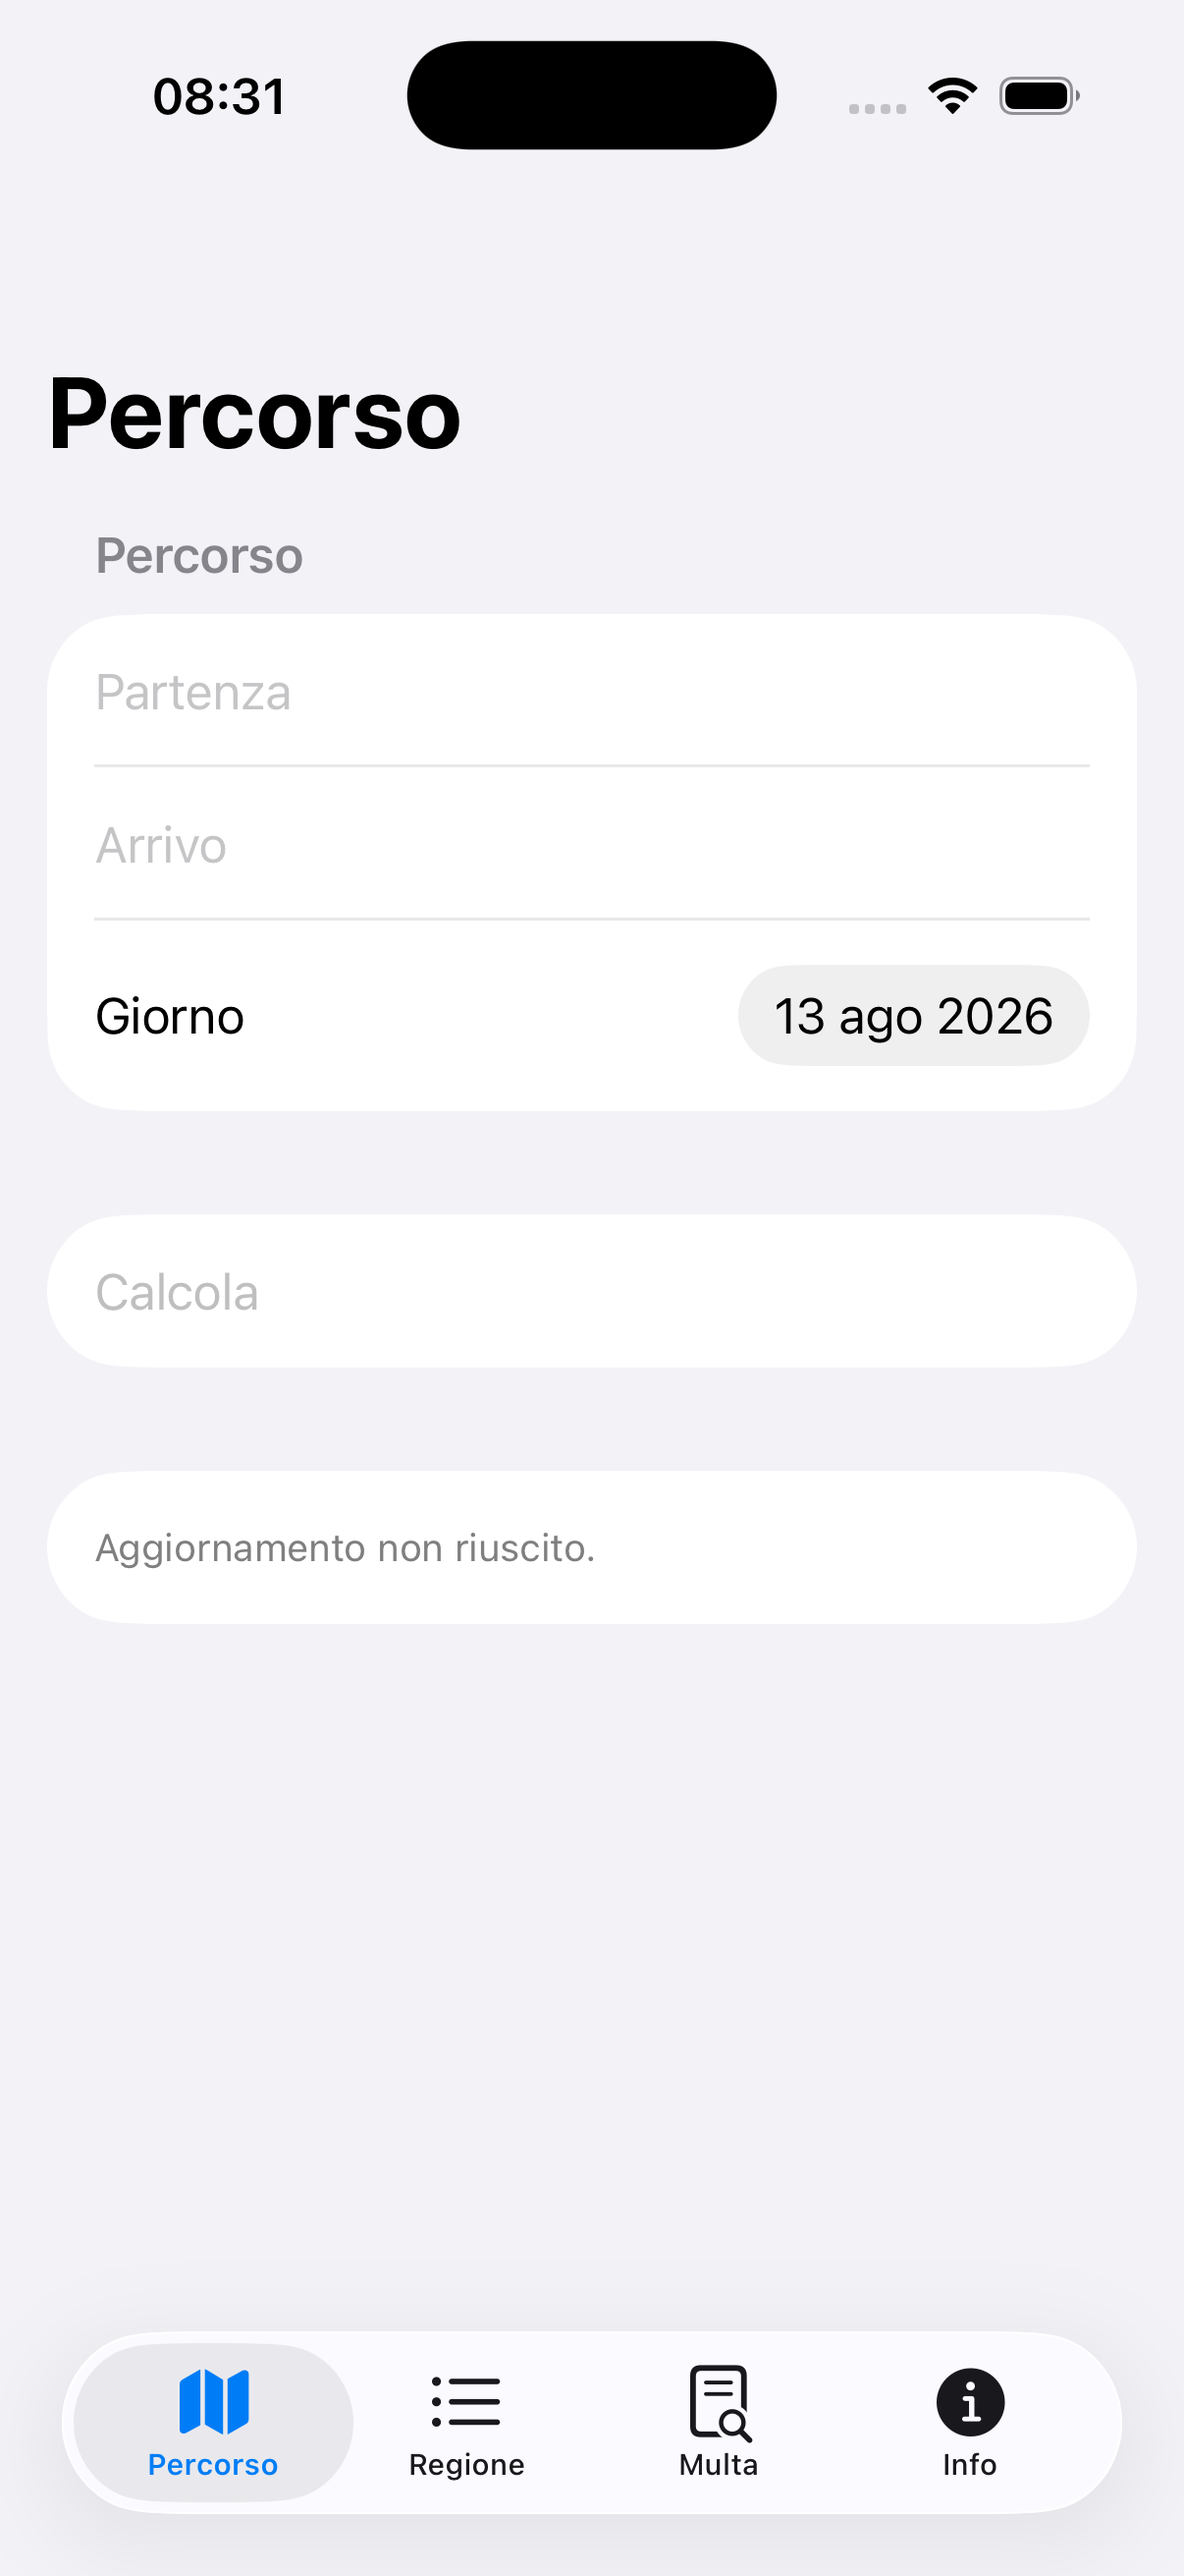
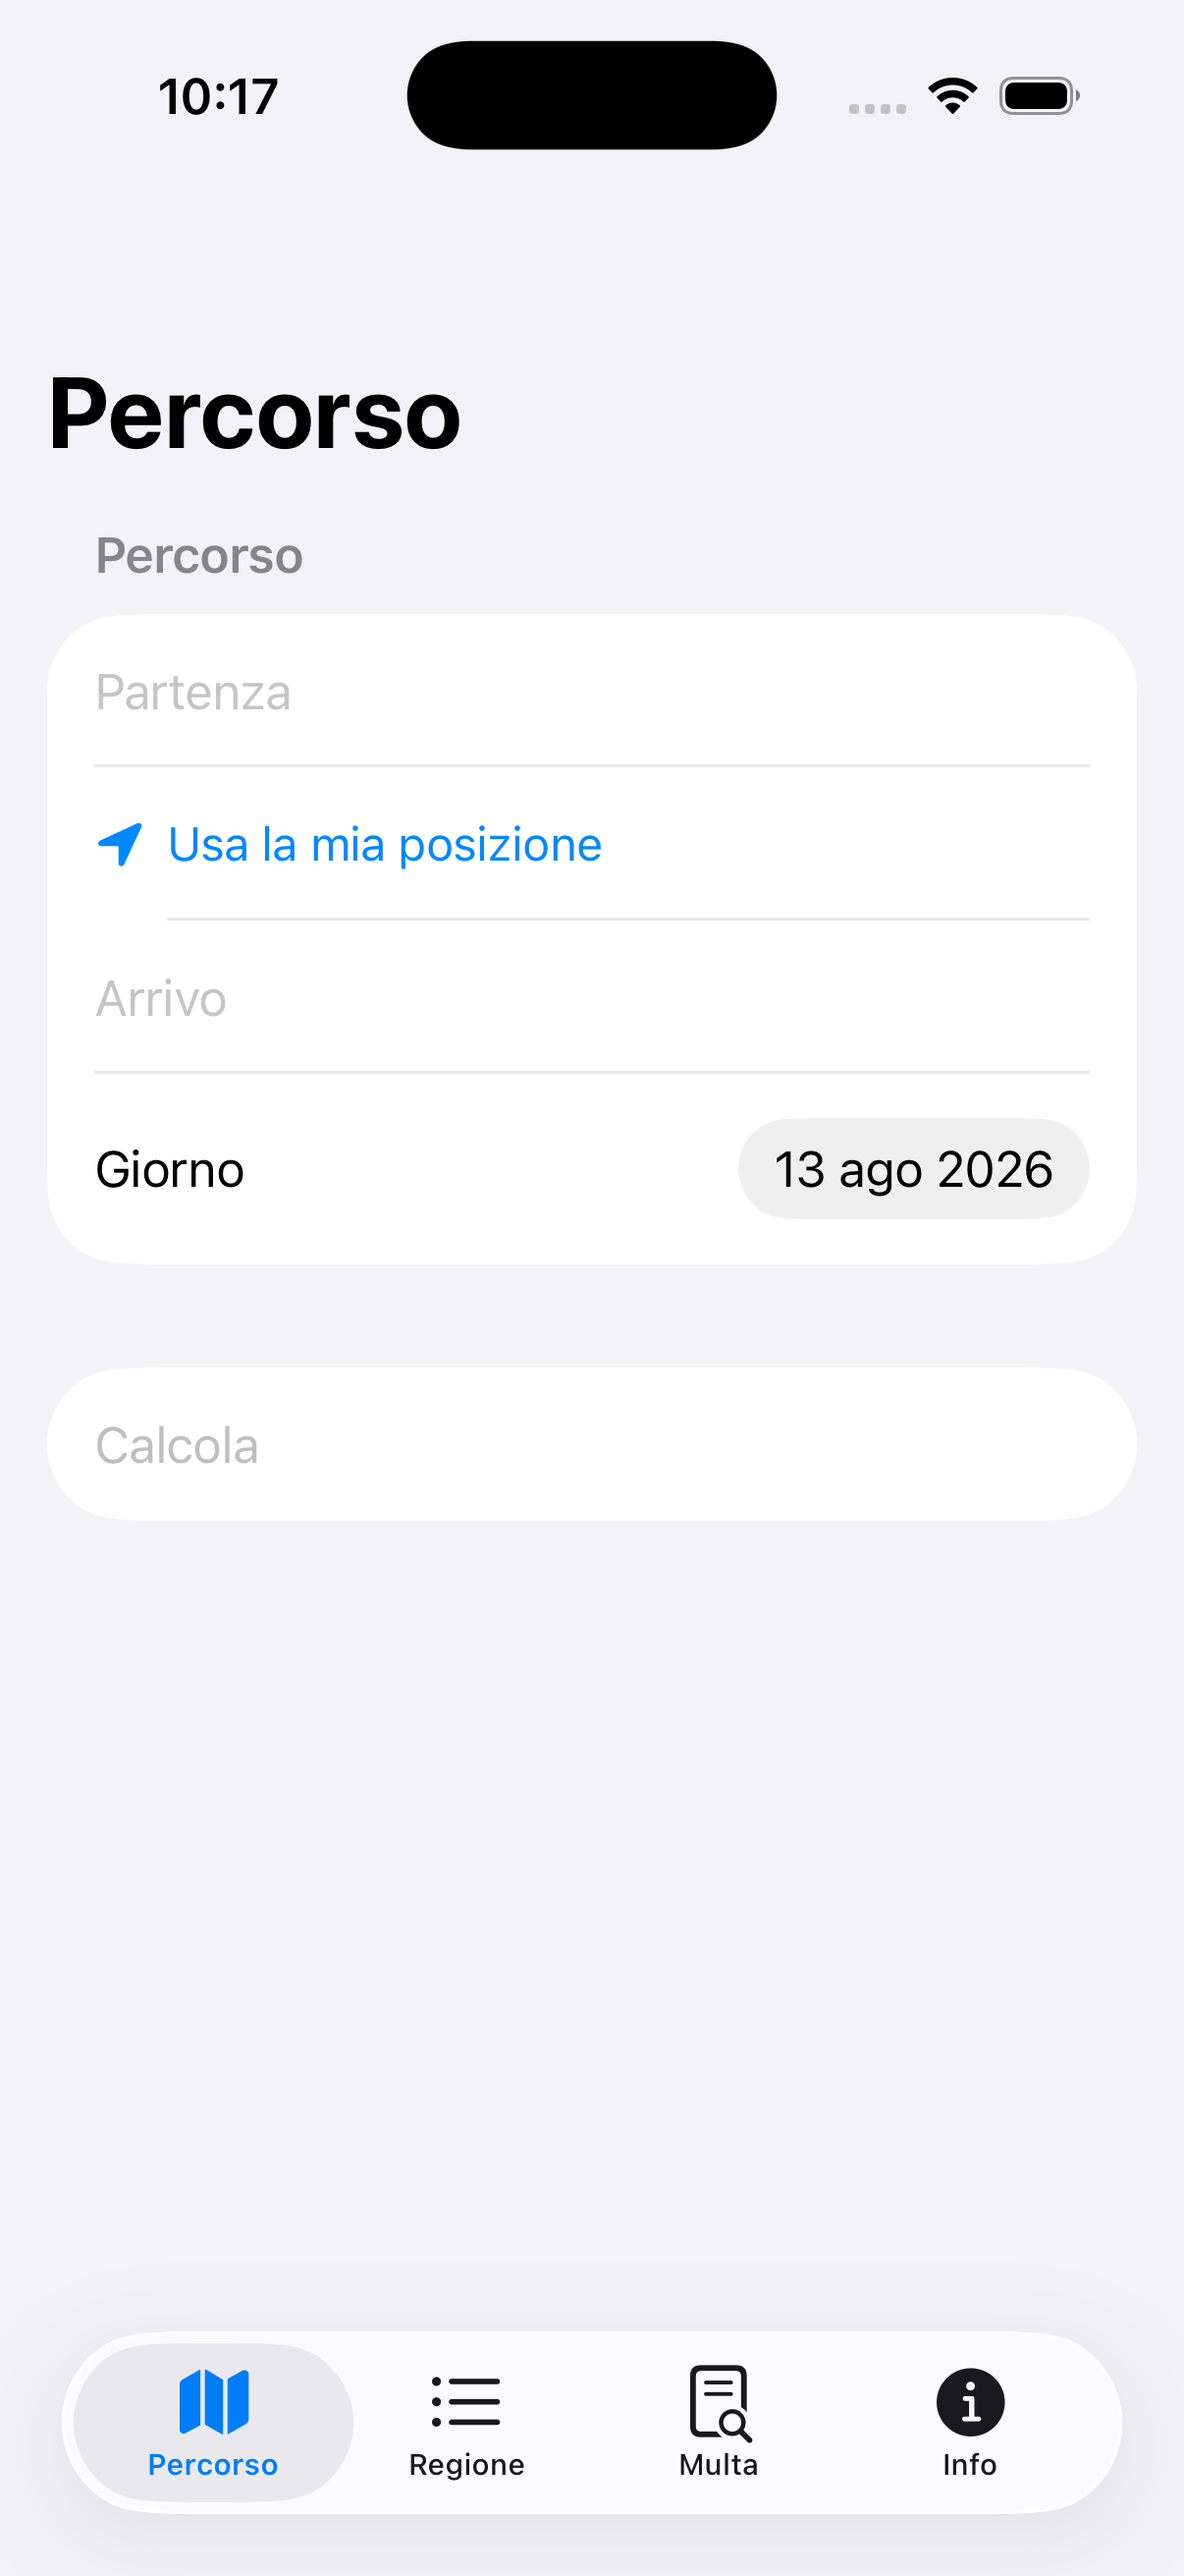
feat(ios): use my position, and freshness that states a date
Adds an explicit 'Usa la mia posizione' button to Partenza. One-shot lookup in
its own service, separate from the trip-mode engine: it asks once, reverse
geocodes to a place name the user can see and correct, and stops. The
authorisation prompt only ever appears because a button was pressed.

Replaces the standing 'Aggiornamento non riuscito.' with a line that carries
the publication date. Saying an update failed while showing a current week
reads as breakage when nothing is broken; and saying it without a date tells
the user nothing about whether to trust the screen.

Claude-Session: https://claude.ai/code/session_012rCMjxBwhzk3agcKwa94PA

diff --git a/ios/App/Services/CurrentPlace.swift b/ios/App/Services/CurrentPlace.swift
@@ -1,0 +1,117 @@
+import CoreLocation
+import Foundation
+
+/// A one-shot "where am I" lookup for the Partenza field.
+///
+/// Deliberately separate from `LocationService`, which is the trip-mode engine:
+/// this asks once, reverse-geocodes, and stops. Nothing here keeps the GPS on,
+/// and the authorisation prompt only ever appears because the user tapped the
+/// button — the app never asks for location on its own.
+@MainActor
+@Observable
+final class CurrentPlace: NSObject, CLLocationManagerDelegate {
+    enum Failure: LocalizedError {
+        case denied
+        case unavailable
+
+        var errorDescription: String? {
+            switch self {
+            case .denied:
+                return "Accesso alla posizione negato. Puoi attivarlo in Impostazioni."
+            case .unavailable:
+                return "Posizione non disponibile in questo momento."
+            }
+        }
+    }
+
+    private let manager = CLLocationManager()
+    private var continuation: CheckedContinuation<CLLocation, Error>?
+
+    private(set) var isResolving = false
+
+    override init() {
+        super.init()
+        manager.delegate = self
+        manager.desiredAccuracy = kCLLocationAccuracyHundredMeters
+    }
+
+    /// A human-readable place name for the current position, e.g. "Milano".
+    ///
+    /// Returns a name rather than coordinates so the field stays legible and the
+    /// user can see, and correct, what the app thinks it resolved.
+    func resolveName() async throws -> String {
+        isResolving = true
+        defer { isResolving = false }
+
+        let location = try await requestLocation()
+        let placemarks = try? await CLGeocoder().reverseGeocodeLocation(location)
+        guard let placemark = placemarks?.first else {
+            // Fall back to coordinates rather than failing: a usable origin beats
+            // a pretty one, and the user can always type over it.
+            return String(format: "%.5f, %.5f",
+                          location.coordinate.latitude, location.coordinate.longitude)
+        }
+        let parts = [placemark.locality, placemark.subAdministrativeArea]
+            .compactMap { $0 }
+        return parts.first ?? placemark.name ?? String(
+            format: "%.5f, %.5f",
+            location.coordinate.latitude, location.coordinate.longitude
+        )
+    }
+
+    private func requestLocation() async throws -> CLLocation {
+        switch manager.authorizationStatus {
+        case .denied, .restricted:
+            throw Failure.denied
+        case .notDetermined:
+            // When In Use only, and only because a button was pressed.
+            manager.requestWhenInUseAuthorization()
+        default:
+            break
+        }
+
+        return try await withCheckedThrowingContinuation { continuation in
+            self.continuation = continuation
+            manager.requestLocation()
+        }
+    }
+
+    nonisolated func locationManager(_ manager: CLLocationManager,
+                                     didUpdateLocations locations: [CLLocation]) {
+        let last = locations.last
+        Task { @MainActor in
+            guard let last else {
+                self.finish(.failure(Failure.unavailable))
+                return
+            }
+            self.finish(.success(last))
+        }
+    }
+
+    nonisolated func locationManager(_ manager: CLLocationManager,
+                                     didFailWithError error: Error) {
+        Task { @MainActor in self.finish(.failure(error)) }
+    }
+
+    nonisolated func locationManagerDidChangeAuthorization(_ manager: CLLocationManager) {
+        let status = manager.authorizationStatus
+        Task { @MainActor in
+            // The user answered the prompt while we were waiting on it.
+            guard self.continuation != nil else { return }
+            switch status {
+            case .authorizedWhenInUse, .authorizedAlways:
+                self.manager.requestLocation()
+            case .denied, .restricted:
+                self.finish(.failure(Failure.denied))
+            default:
+                break
+            }
+        }
+    }
+
+    private func finish(_ result: Result<CLLocation, Error>) {
+        guard let continuation else { return }
+        self.continuation = nil
+        continuation.resume(with: result)
+    }
+}

diff --git a/ios/App/Views/RouteView.swift b/ios/App/Views/RouteView.swift
@@ -29,6 +29,7 @@ struct RouteView: View {
     /// Debug-only: set by the `-velox.demoTrip` launch argument so trip mode can
     /// be exercised in the simulator without typing addresses. Not user-reachable.
     @State private var demoTripResult: RouteResult?
+    @State private var currentPlace = CurrentPlace()
 
     var body: some View {
         NavigationStack {
@@ -36,6 +37,21 @@ struct RouteView: View {
                 Section("Percorso") {
                     TextField("Partenza", text: $origin)
                         .textInputAutocapitalization(.words)
+                    // Explicit tap only. The app never reaches for the GPS by itself.
+                    Button {
+                        Task { await useCurrentPosition() }
+                    } label: {
+                        HStack(spacing: 6) {
+                            if currentPlace.isResolving {
+                                ProgressView().controlSize(.small)
+                            } else {
+                                Image(systemName: "location.fill")
+                            }
+                            Text("Usa la mia posizione")
+                        }
+                        .font(.callout)
+                    }
+                    .disabled(currentPlace.isResolving)
                     TextField("Arrivo", text: $destination)
                         .textInputAutocapitalization(.words)
                     DatePicker("Giorno", selection: $date, in: dateRange,
@@ -60,9 +76,9 @@ struct RouteView: View {
                         Text(errorText).foregroundStyle(.red).font(.callout)
                     }
                 }
-                if let message = provider.errorMessage {
+                if let note = provider.freshnessNote {
                     Section {
-                        Text(message).font(.footnote).foregroundStyle(.secondary)
+                        Text(note).font(.footnote).foregroundStyle(.secondary)
                     }
                 }
             }
@@ -120,6 +136,20 @@ struct RouteView: View {
         let components = DateComponents(weekOfYear: weekOfYear, yearForWeekOfYear: year)
         guard let start = calendar.date(from: components) else { return nil }
         return start...start.addingTimeInterval(7 * 86_400 - 1)
+    }
+
+    /// Fill Partenza from the device's current position.
+    ///
+    /// Resolves to a place name rather than raw coordinates so the user can see
+    /// what the app thinks it found, and type over it if it guessed the wrong town.
+    private func useCurrentPosition() async {
+        errorText = nil
+        do {
+            origin = try await currentPlace.resolveName()
+        } catch {
+            errorText = (error as? LocalizedError)?.errorDescription
+                ?? "Posizione non disponibile."
+        }
     }
 
     private func calculate() async {

diff --git a/ios/App/Services/SnapshotProvider.swift b/ios/App/Services/SnapshotProvider.swift
@@ -12,6 +12,7 @@ import VeloxKit
 final class SnapshotProvider {
     private(set) var snapshot: Snapshot?
     private(set) var errorMessage: String?
+    private(set) var didRefreshFail = false
 
     private let remoteBase = URL(string:
         "https://tfcfun.github.io/velox-italia/data/latest/")!
@@ -23,6 +24,26 @@ final class SnapshotProvider {
     }
 
     var stalenessDays: Int? { snapshot?.index.ageInDays() }
+
+    /// Whether what the user is looking at is still good, regardless of whether
+    /// the last refresh attempt succeeded.
+    var isDataCurrent: Bool {
+        guard let days = stalenessDays else { return snapshot != nil }
+        return days <= 8
+    }
+
+    /// The one line the user sees about data freshness.
+    ///
+    /// Always carries the publication date, because that is what actually tells
+    /// them whether to trust the screen. A failed refresh over current data is a
+    /// statement of fact, not a warning.
+    var freshnessNote: String? {
+        guard snapshot != nil else { return nil }
+        if didRefreshFail && !isDataCurrent {
+            return Copy.refreshFailed(publishedAt: publishedAtDisplay)
+        }
+        return Copy.dataAsOf(publishedAt: publishedAtDisplay)
+    }
 
     /// The snapshot's publication date, formatted dd/MM/yyyy for display.
     var publishedAtDisplay: String {
@@ -72,9 +93,13 @@ final class SnapshotProvider {
             try FileManager.default.moveItem(at: staging, to: cacheDirectory)
             snapshot = candidate
             errorMessage = nil
+            didRefreshFail = false
         } catch {
-            errorMessage = "Aggiornamento non riuscito."
-            // The previously loaded snapshot is retained deliberately.
+            // The previously loaded snapshot is retained deliberately, and a
+            // failed refresh is only worth mentioning when the data the user is
+            // actually looking at has gone stale. Saying "update failed" while
+            // showing a current week reads as breakage when nothing is broken.
+            didRefreshFail = true
         }
     }
 }

diff --git a/ios/VeloxKit/Tests/VeloxKitTests/CopyTests.swift b/ios/VeloxKit/Tests/VeloxKitTests/CopyTests.swift
@@ -17,6 +17,8 @@ final class CopyTests: XCTestCase {
             Copy.mitNoMatch,
             Copy.stretchEntryAlert(road: "A4"),
             Copy.appPurpose,
+            Copy.dataAsOf(publishedAt: "13/08/2026"),
+            Copy.refreshFailed(publishedAt: "13/08/2026"),
         ]
     }
 
@@ -46,5 +48,14 @@ final class CopyTests: XCTestCase {
         let text = Copy.fixedCameraAlert(metres: 800)
         XCTAssertTrue(text.contains("800"))
         XCTAssertTrue(text.lowercased().contains("limite"))
+    }
+}
+
+extension CopyTests {
+    /// A freshness message without a date tells the user nothing about whether
+    /// to trust the screen.
+    func testFreshnessMessagesAlwaysCarryTheDate() {
+        XCTAssertTrue(Copy.dataAsOf(publishedAt: "13/08/2026").contains("13/08/2026"))
+        XCTAssertTrue(Copy.refreshFailed(publishedAt: "13/08/2026").contains("13/08/2026"))
     }
 }

diff --git a/ios/VeloxKit/Sources/VeloxKit/Copy.swift b/ios/VeloxKit/Sources/VeloxKit/Copy.swift
@@ -95,3 +95,18 @@ public extension Copy {
         sui controlli di velocità, così non devi cercarle sul sito.
         """
 }
+
+public extension Copy {
+    /// Shown when the data is current. States the publication date and nothing more.
+    static func dataAsOf(publishedAt: String) -> String {
+        "Dati della Polizia Stradale aggiornati al \(publishedAt)."
+    }
+
+    /// Shown when a refresh failed AND the data on screen has gone stale.
+    ///
+    /// The date is the point of the message: "update failed" alone tells the user
+    /// nothing about whether to trust what they are looking at.
+    static func refreshFailed(publishedAt: String) -> String {
+        "Aggiornamento non riuscito. Stai vedendo i dati pubblicati il \(publishedAt)."
+    }
+}
